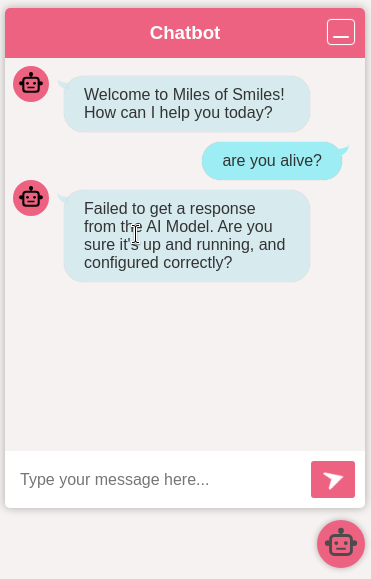
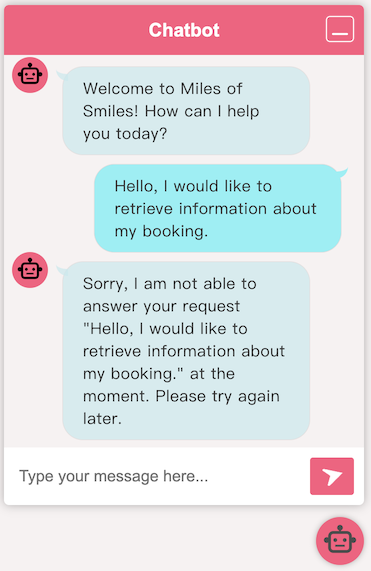
Complete section 1 step 10 updates

diff --git a/section-1/step-10/src/main/java/dev/langchain4j/workshop/CustomerSupportAgent.java b/section-1/step-10/src/main/java/dev/langchain4j/workshop/CustomerSupportAgent.java
@@ -43,7 +43,7 @@ public interface CustomerSupportAgent {
     )
     @Timeout(
         unit = ChronoUnit.SECONDS,
-        value = 1
+        value = 30
     )
     @Retry(
         abortOn = {

diff --git a/docs/docs/section-1/step-10.md b/docs/docs/section-1/step-10.md
@@ -256,10 +256,15 @@ depending on the environment that you use:
     podman run -d --name otel-lgtm -p 3000:3000 -p 4317:4317 -p 4318:4318 --rm -ti grafana/otel-lgtm
     ```
 
-
 Now that the `Grafana Docker OpenTelemetry LGTM` container is running, you need to configure the `mpTelemetry` feature
-to forward traces, metrics and logs to it. ==In the `src/main/resources/META-INF/microprofile-config.properties` file,
-add the following configuration:==
+to forward traces, metrics and logs to it. ==First, we need to make the chat model listeners implemented in LangChain4j
+CDI avaivalbe to our AI server. Add the following dependency to the `pom.xml` file:==
+
+```properties title="pom.xml"
+--8<-- "../../section-1/step-10/pom.xml:lc4j-cdi-telemetry"
+```
+
+==Then, in the `src/main/resources/META-INF/microprofile-config.properties` file, add the following configuration:==
 
 ```properties title="microprofile-config.properties"
 --8<-- "../../section-1/step-10/src/main/resources/META-INF/microprofile-config.properties:opentelemetry-config"
@@ -334,41 +339,52 @@ wrong, we are able to handle it gracefully.
 
 Ultimately, calling an LLM is not much different than making traditional REST calls. If you're familiar with
 [MicroProfile](https://microprofile.io){target="_blank"}, you may know that it has a specification for how to implement
-Fault Tolerance. Quarkus implements this feature with the `quarkus-smallrye-fault-tolerance`
-extension. Go ahead and add it to your `pom.xml`:
-
-```xml title="pom.xml"
-        <!-- Fault Tolerance -->
-        <dependency>
-            <groupId>io.quarkus</groupId>
-            <artifactId>quarkus-smallrye-fault-tolerance</artifactId>
-        </dependency>
-```
-
-The MicroProfile Fault Tolerance spec defines 3 main fault tolerance capabilities:
+Fault Tolerance. The MicroProfile Fault Tolerance spec defines 3 main fault tolerance capabilities:
 
 * **Timeout** - allows you to set a maximum time the call to the LLM should take before failing.
 * **Fallback** - allows you to call a fallback method in case there's an error
-* **Retry** - allows you to set how many times the call should be retried if there's an error, 
-and what delay there should be in between the calls
+* **Retry** - allows you to set how many times the call should be retried if there's an error, and what delay there
+  should be in between the calls
 
-Now all we have to do is annotate our `dev.langchain4j.workshop.CustomerSupportAgent` AI service with the following
-annotations:
+### Enabling the mpFaultTolerance feature
+
+Liberty provides support for Fault Tolerance in the `mpFaultTolerance` feature. ==You can enable the
+`mpFaultTolerance` feature in the Liberty server by adding it to the list of features in the
+`src/main/liberty/config/server.xml` file:==
+
+```xml hl_lines="13" title="server.xml"
+--8<-- "../../section-1/step-10/src/main/liberty/config/server.xml:mpTelemetry"
+```
+
+### Annotating the AI service
+
+Now all we have to do is annotate our `dev.langchain4j.workshop.CustomerSupportAgent` AI service witht the MP Fault
+Tolerance annotations. ==First, we need to make the fault tolerance annotations  avaivalbe to our AI server. Add the
+following dependency to the `pom.xml` file:==
+
+```properties title="pom.xml"
+--8<-- "../../section-1/step-10/pom.xml:lc4j-cdi-ft"
+```
+
+==Then, we can annotate our `dev.langchain4j.workshop.CustomerSupportAgent` AI service with the following annotations:==
 
 ```java hl_lines="15-17 44-64 67-72" title="CustomerSupportAgent.java"
 --8<-- "../../section-1/step-10/src/main/java/dev/langchain4j/workshop/CustomerSupportAgent.java"
 ```
 
-That's all. To test the implemented fault tolerance, we'll need to 'break' our application. You can either turn off
-your Wi-Fi, set the `@Timeout` value to something very low (e.g. 10), or you could set the inference server url to
-something that won't resolve, e.g. add the following property to your
-`src/main/resources/META-INF/microprofile-config.properties` file:
+### Testing fault tolerance
+
+To test the implemented fault tolerance, we'll need to 'break' our application. You can either turn off your Wi-Fi, set
+the `@Timeout` value to something very low (e.g. 10), or you could set the inference server url to something that won't
+resolve, e.g. add the following property to your `src/main/resources/META-INF/microprofile-config.properties` file:
 
 ```properties
 dev.langchain4j.cdi.plugin.customer-support-agent.config.base-url=https://api.example.com/v1/
 ```
 
-It's up to you to decide what your preferred way to create chaos is :).  Once you've done that, run your application and test it with different inputs. You should see that the fallback method is called when the LLM fails to produce a response within the specified timeout. This demonstrates the fault tolerance of our application.
+It's up to you to decide what your preferred way to create chaos is :).  Once you've done that, run your application and
+test it with different inputs. You should see that the fallback method is called when the LLM fails to produce a
+response within the specified timeout. This demonstrates the fault tolerance of our application.
 
 Don't forget to revert the change you just did!
 
@@ -376,10 +392,11 @@ Don't forget to revert the change you just did!
 
 ## Conclusion
 
-In this step, we introduced observability to retrieve useful information about the application's state, performance
-and behavior. This is a vital piece for a production-grade application, regardless of whether it's using AI or not.
-We also learned that Quarkus LangChain4j provides relatively straightforward ways to not only add observability
-to the application, but also to consult the data produces by it.
+In this step, we introduced observability to retrieve useful information about the application's state, performance and
+behavior. This is a vital piece for a production-grade application, regardless of whether it's using AI or not. We also
+learned that LangChain4j and LangChain4j CDI provide relatively straightforward ways to not only add observability to
+the application, but also to consult the data produced by it.
 
-We also introduced chaos engineering techniques to simulate failures in our application and observe how our 
-fallback mechanism responds. This is a crucial step for ensuring that our application can handle unexpected situations gracefully.
+We also introduced chaos engineering techniques to simulate failures in our application and observe how our  fallback
+mechanism responds. This is a crucial step for ensuring that our application can handle unexpected situations
+gracefully.